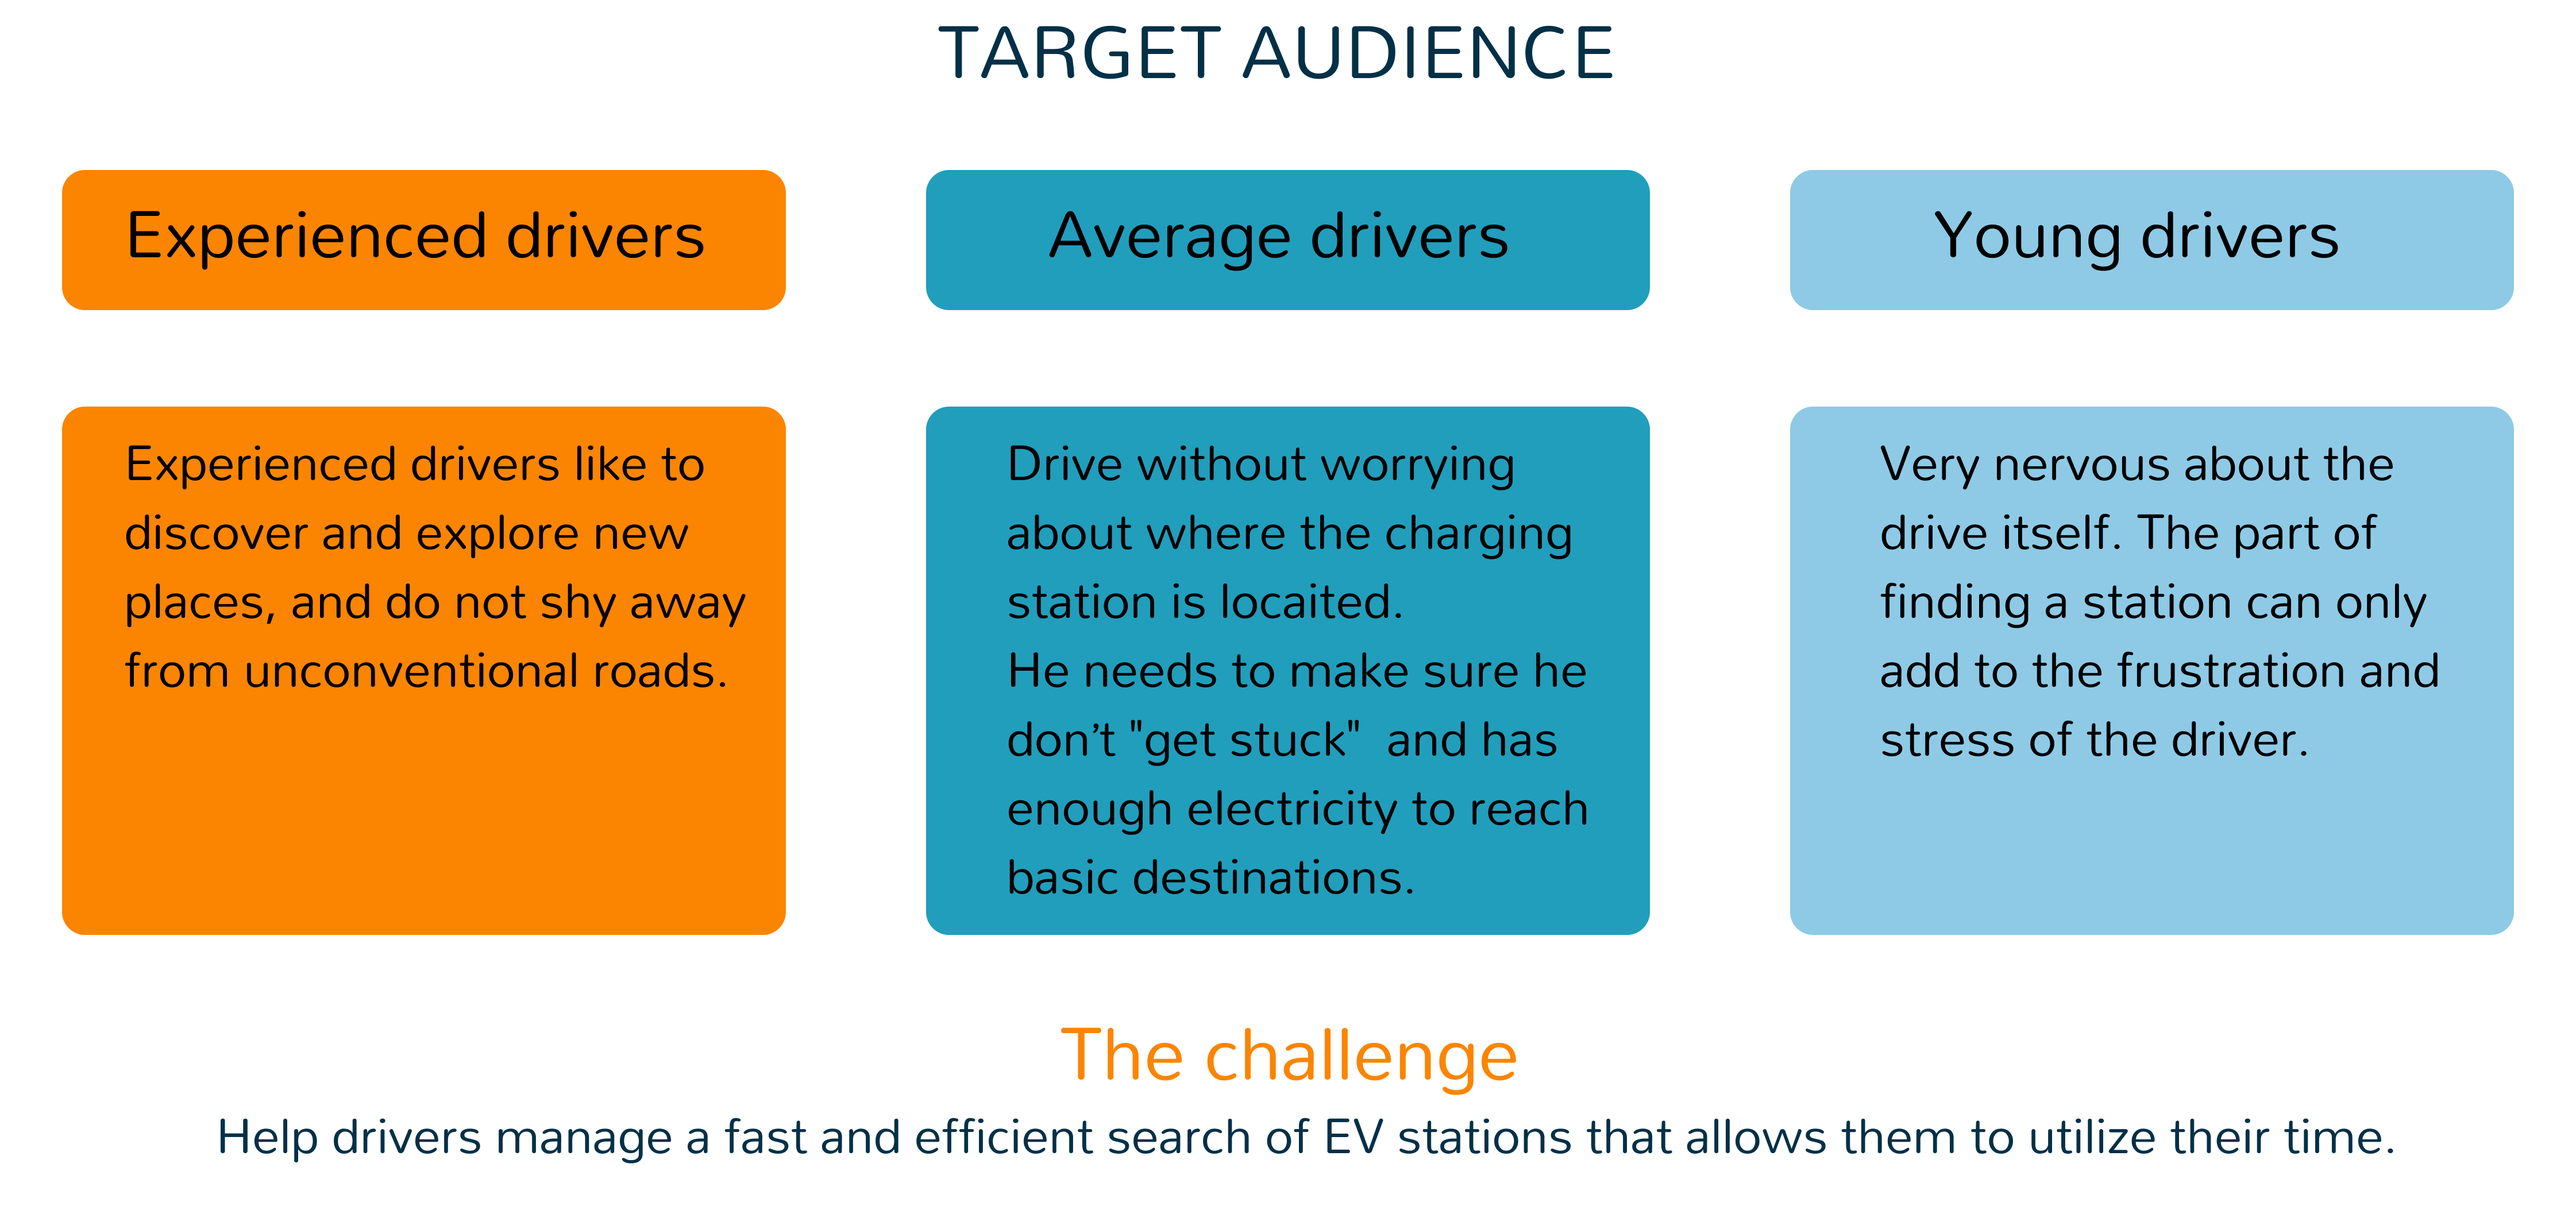
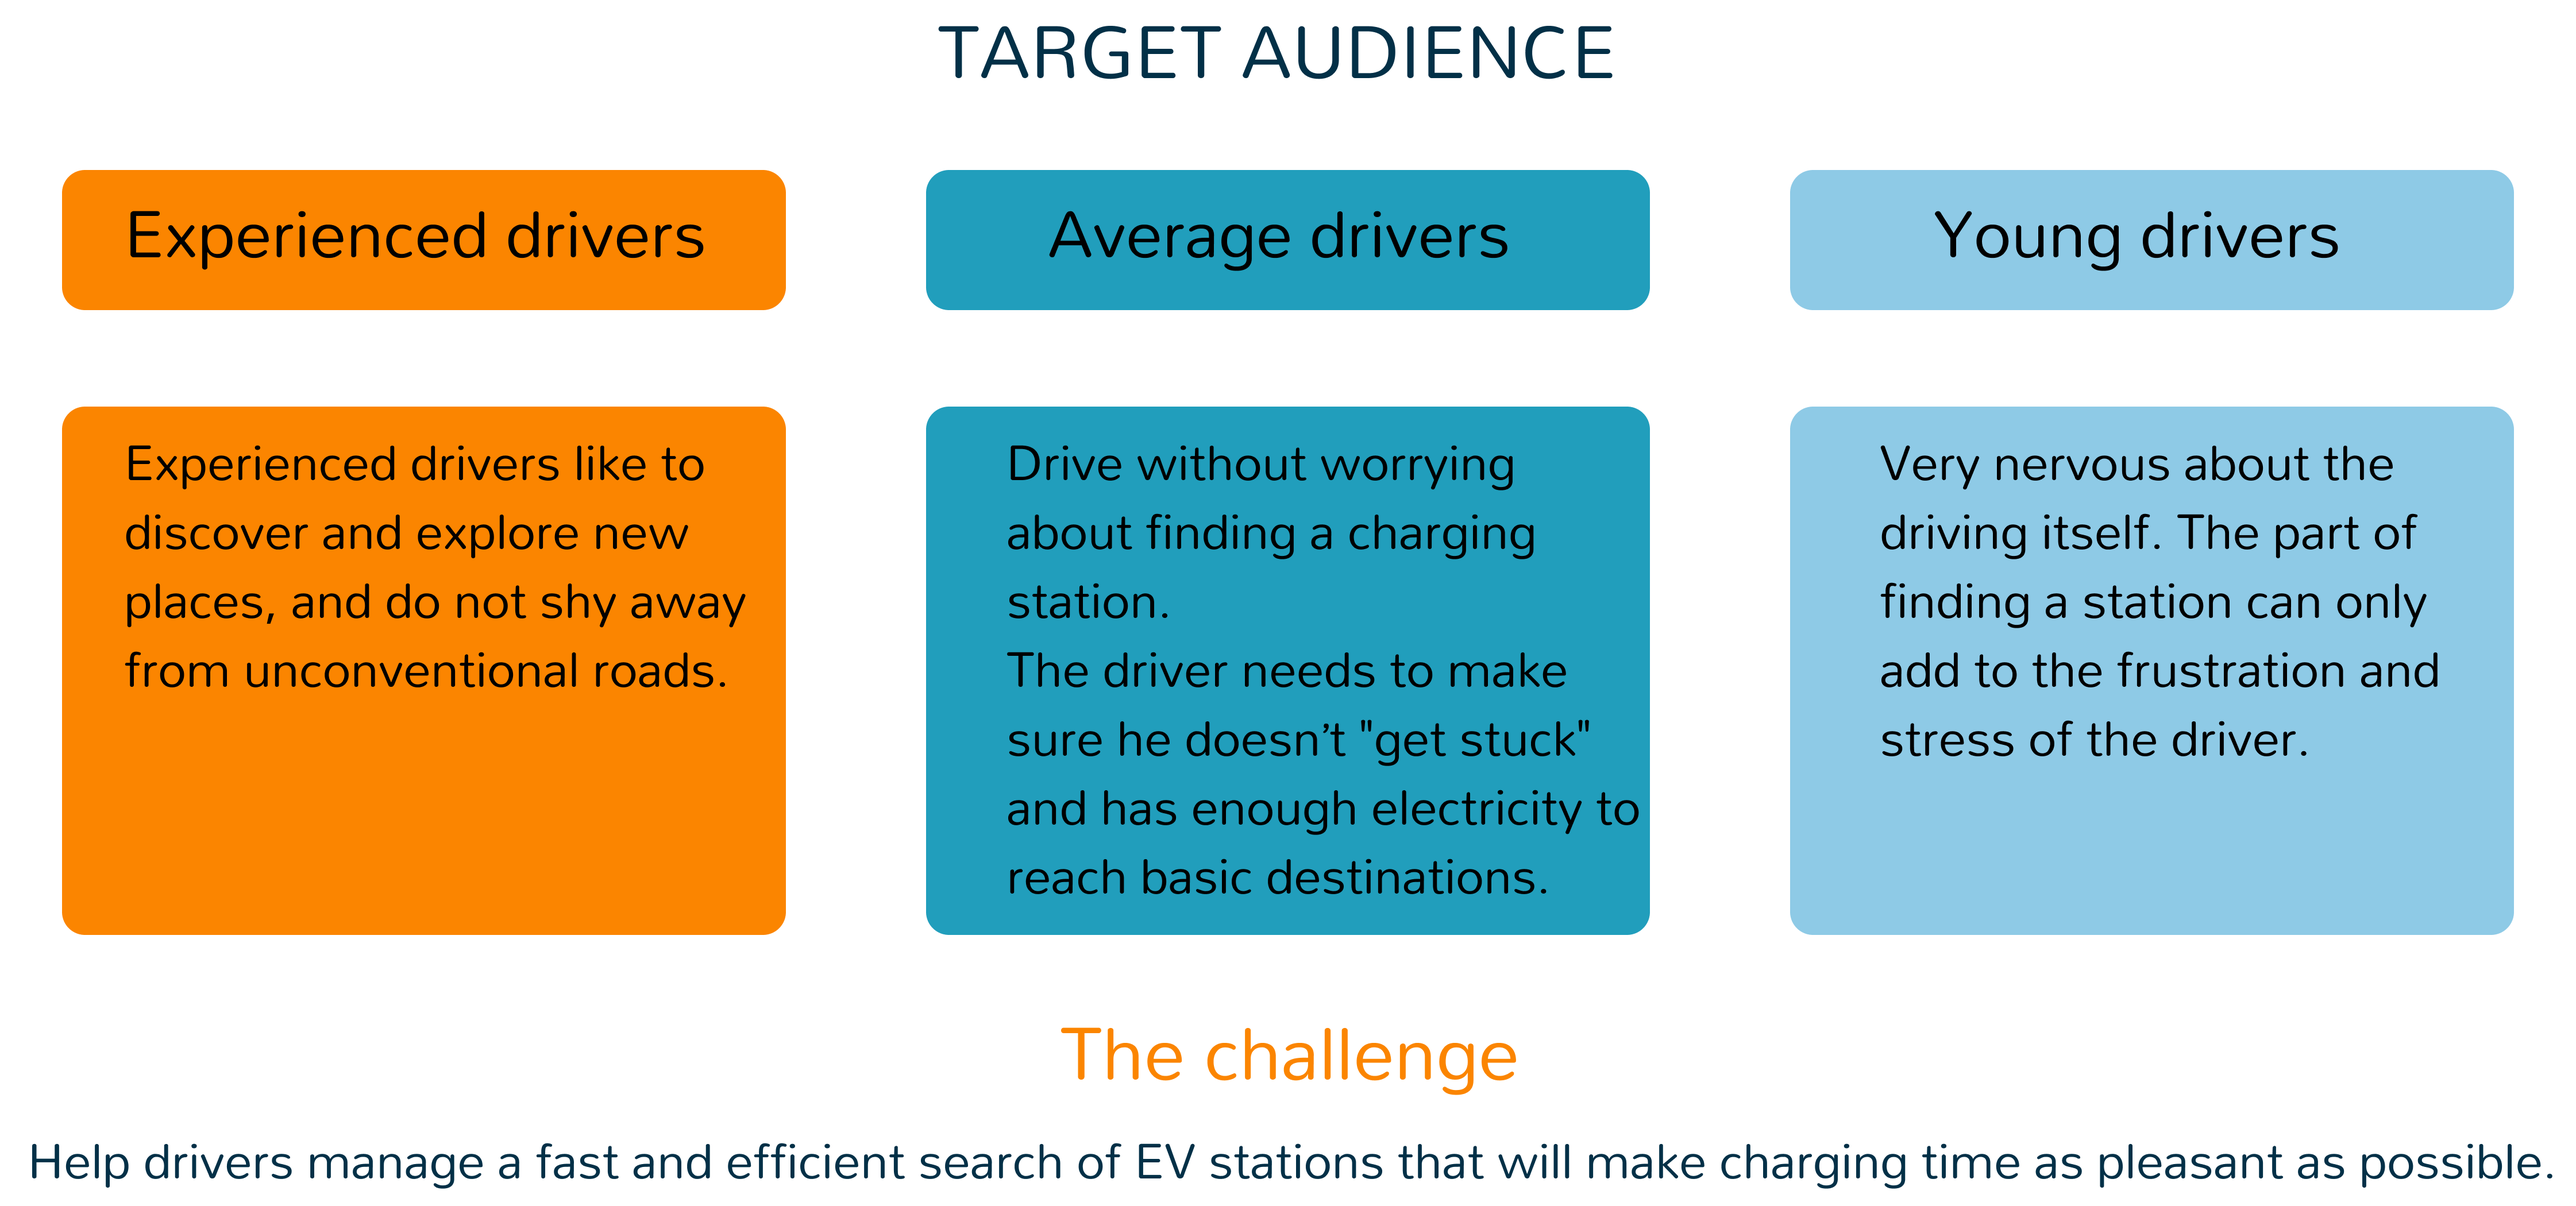
edit text

diff --git a/plugMe.html b/plugMe.html
@@ -288,7 +288,7 @@ Zlil                </span>
                   </div>
                   
                   <div class="achieve_container1">
-                          <img style="width: 80%; height: 80%;" src="images/MARKET.png">
+                          <img style="width: 100%; height: 80%;" src="images/MARKET.png">
                   
               </div> 
 
@@ -306,26 +306,24 @@ Zlil                </span>
                                             Plugshare                                          </h4>
                                           <p>
                                             PlugShare has noticeable problems :<br>
-                                            First, when you install the app, you need to update your car details, what makes all of your searches based on this. <br>If you have another car? or if you want to finding a station for a friend? <br>
-                                           Second, PlugShare don't allow you to make reservations, pay and know what you have around.   
+                                            First, when you install the app, you need to update your car details, what makes all of your searches based on this. <br>If you have another car? or if you want to find a station for a friend? <br>
+                                           Second, PlugShare doesn't allow you to make reservations, pay and know what you have around.   
                                                  </p>
                                                  &nbsp;
                                                  <h4>
                                                    Grivo                                </h4>
                                                  <p>
-                                                     While Grivo is a high-quality app, communicate design, navigate to the station, help options, and many more!<br>
+                                                     Grivo is a high-quality app with communicative design, navigation to the station, help options, and many more!<br>
                                                      What you don't have in Grivo is:<br>
                                                     <p>
                                                     - The option to make reservations.<br>
                                                     - The full information about what you have around.<br>
-                                                    - Get a massage when the charging is finished.<br>
+                                                    - Get a message when the charging is finished.<br>
                                                     - General information about a new station or new regulations.<br>
                                                     - A payment method that works.<br>
-                                                    - The app working just in Israel, we need an international App<br>
+                                                    - The app operates just in Israel, we need an international App<br>
                                                     </p>
-                                                    The driver needs an app that contains all the options in one place.<br>
-                                                    Now we can find Facebook groups, WhatsApp groups, and applications like Wallbox
-                                                    That allows managing your current station. 
+                                                    The driver needs an app that contains all options in one place.<br>
                                                     
                                         </div>
                                
@@ -339,8 +337,10 @@ Zlil                </span>
                                                 User research 
                                               </h3>
                                               <p>
-                                                Questionnaires for 27 drivers.<br> To gather as much measurable information regarding habits, preferences, ways of charging, and the main use methods.<br> In this part, I interviewed 27 people.<br> After analyzing the questionnaires,
-                                                 I learned a lot about the way the product should be developed,<br> what needs to be emphasized and what is further explored in the next stage of in-depth interviews with users.
+                                                Questionnaires for 27 drivers to gather measurable data regarding habits,
+                                                <br> preferences, ways of charging, and the main use methods.<br> 
+                                                After analyzing the questionnaires, I learnt a lot about the way the product should be developed,<br> 
+                                                what needs to be emphasized and further explored in the next stage of in-depth interviews with users.
                                              </p>
                                              <div>                                             &nbsp;
                                             </div>
@@ -349,8 +349,8 @@ Zlil                </span>
                                             </h3>
                                             &nbsp;
                                             <p>
-                                                In-depth interviews, the purpose is to understand the results from the quantitative research phase.<br>
-                                                 At this point, I focused on understanding behavior patterns in specific situations, preferences, and complex ways of thinking. 
+                                                In-depth interviews. The purpose is to understand the results from the quantitative research phase.<br>
+                                                 At this point, I focused on understanding behavior patterns. 
                                             </p>
                                 
                                             </div>
@@ -372,10 +372,11 @@ Zlil                </span>
                                                   <p>
                                                   
 Personas are descriptive figures, built on the data collected from the study. <br>
-Personas represent the different types of users who will use the product, application, site, or service offered in a similar way.<br>
- These can be quantified, researched and relevant lessons and thoughts for further planning and design can be derived from them.
- The personas will help the designer understand the needs, experiences, goals, and behavior of the users.
-              </p>
+They represent the different types of users who will use the product, application, site, or service offered in a similar way.<br>
+The personas will help the designer understand the needs, experiences, goals, and behavior of the users.<br>
+It can help provide detailed description of the customer,<br>
+and that assists in making smart decision regarding product design.<br>
+</p>
               &nbsp;
                                                 </div>
                                                 
@@ -406,17 +407,18 @@ Personas represent the different types of users who will use the product, applic
                                                         </h5>
                                                              &nbsp;
                                                              <p>
-                                                                A simple interface, that will help you to find and reach the relevant station next to you.<br>
+                                                                A simple interface, that will help you find and reach the relevant station next to you.<br>
                                                                  Focused filtering of characteristics that are important to you.
                                                                 <p>
-                                                                    The user will be able to see photos, details, if the station is occupied (and for how long),<br>
-                                                                    and other drivers' scores which will verify the quality, rapidness of charging, prices, and description of the station and what you have next to it.
+                                                                    The user will be able to see photos, details, wether the station is occupied (and for how long).<br>
+                                                                    Moreover, it will provide other drivers' scores which will verify the quality,<br>
+                                                                    rapidness of charging, tariffs, and description of the station and what you have next to it.
                                                                 </p>
                                                                 <p>
-                                                                    The user will be able to share stations he liked or discovered, get a higher rating, and be exposed to new stations.
+                                                                    The user will be able to share stations he liked or discovered, get a higher rating, and to be exposed to new stations.
                                                                 </p>
                                                                 <p>
-                                                                    The user can update online, on how much time he has left to be on this station.  
+                                                                    The user can post online, how much time he is going to spend in the station.  
                                                                 </p>
                                                     </div>
                                            
@@ -434,7 +436,7 @@ Personas represent the different types of users who will use the product, applic
                                                           <p>
                                                           
                                                             User flow is a schematic flow chart that a typical user passes in order to complete a task.<br> User flow takes the user from the entry point through actions, to
-                                                             the desired result and the final action.<br> In my case, I chose a User flow for a new user on his way to find the ideal station.<br> This is one of many different types of User flows.
+                                                             the desired result.<br> In my case, I chose a user flow for a new user on his way to find the ideal station.<br> This is one of many different types of user flows.
                       </p>
                                                         </div>
                                                         
